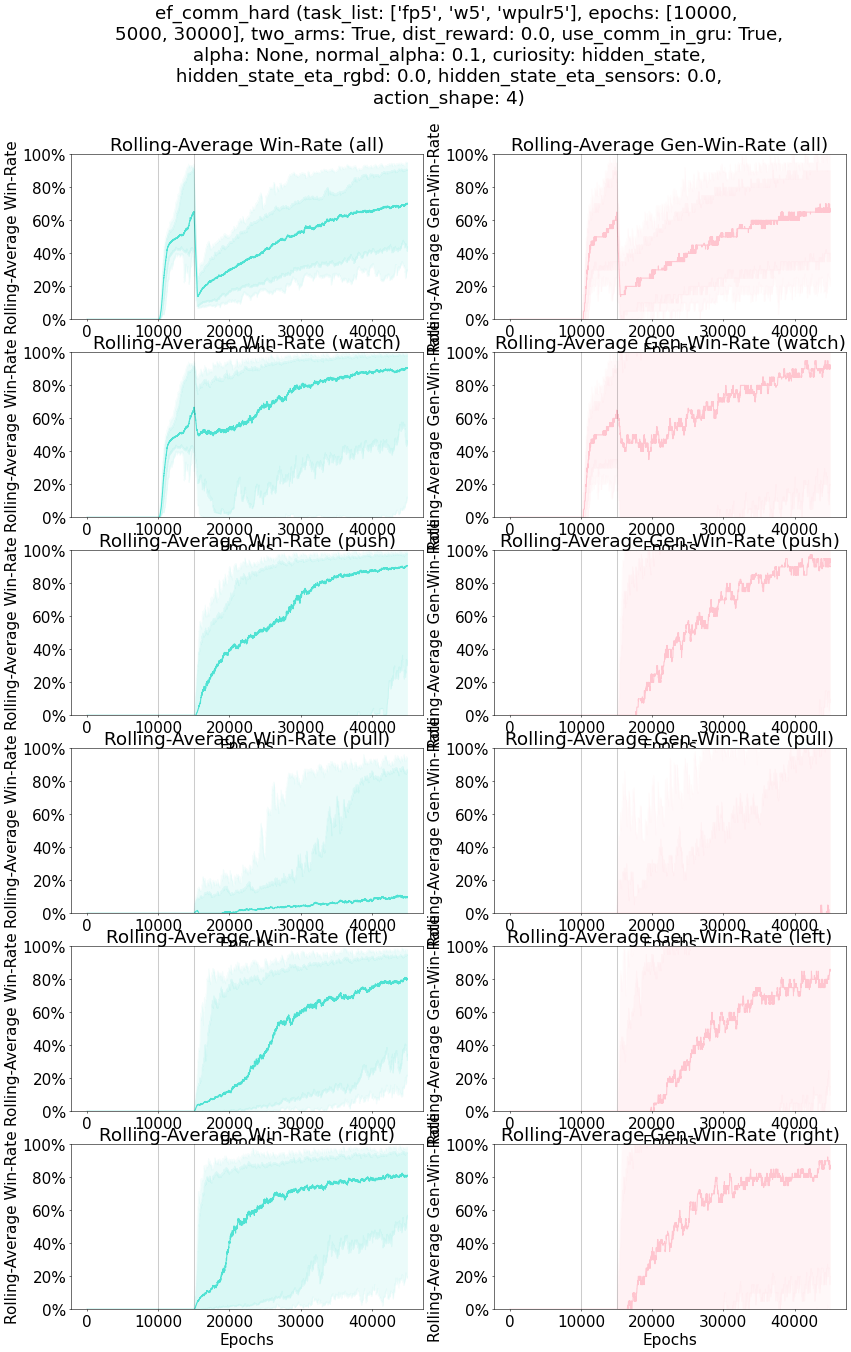
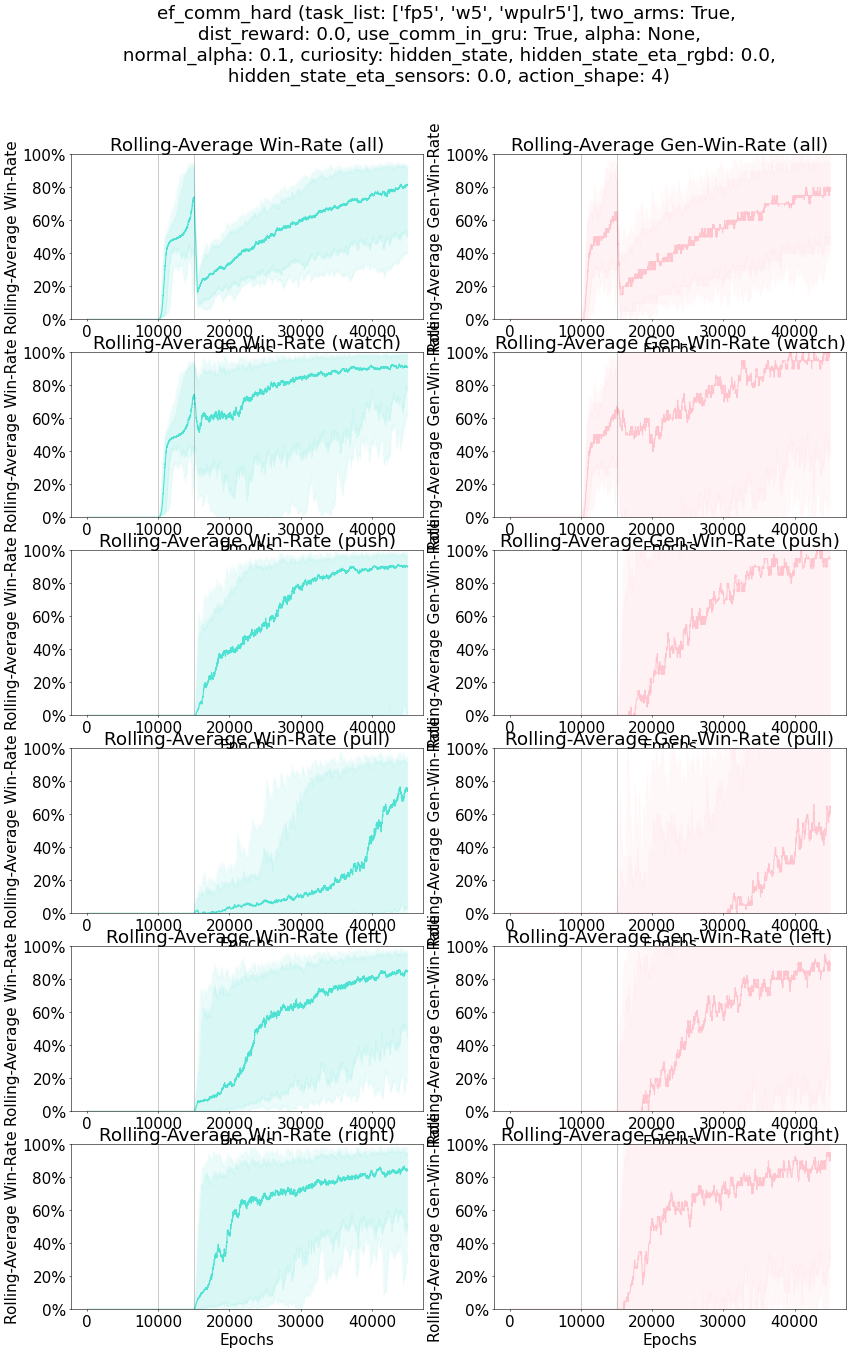
nonbinary shoulder speed is fatal.

diff --git a/utils.py b/utils.py
@@ -241,7 +241,7 @@ parser.add_argument('--show_duration',                  type=bool,          defa
     # Things which have list-values.
 parser.add_argument('--task_list',                      type=literal,       default = ["fp", "w", "wpulr"],
                     help='List of tasks. Agent trains on each task based on epochs in epochs parameter.')
-parser.add_argument('--epochs',                         type=literal,       default = [10000, 5000, 10000], # 10000 for easy mode with distance-rewards and non-gru. 25000 for hard mode enough.
+parser.add_argument('--epochs',                         type=literal,       default = [10000, 5000, 30000], # 10000 for easy mode with distance-rewards and non-gru. 25000 for hard mode enough.
                     help='List of how many epochs to train in each task.')
 parser.add_argument('--time_scales',                    type=literal,       default = [1],
                     help='Time-scales for upper MTRNN.')
@@ -260,7 +260,9 @@ parser.add_argument('--object_size',                    type=float,         defa
 parser.add_argument('--body_size',                      type=float,         default = 2,
                     help='How large is the agent\'s body?')    
 parser.add_argument('--two_arms',                       type=literal,       default = False,
-                    help='How large is the agent\'s body?')    
+                    help='Does the agent have two arms instead of one?')  
+parser.add_argument('--shoulder_binary',                type=literal,       default = True,
+                    help='Do agent shoulders only have two speeds?')      
 parser.add_argument('--time_step',                      type=float,         default = .2,
                     help='numSubSteps in pybullet environment.')
 parser.add_argument('--steps_per_step',                 type=int,           default = 20,

diff --git a/arena.py b/arena.py
@@ -171,10 +171,16 @@ class Arena():
            for body_part in touch_dict.keys():
                touch_dict[body_part] = 0 
  
-        #if(shoulder < 0): 
-        #    shoulder = -self.args.max_shoulder_speed
-        #else:
-        #    shoulder = self.args.max_shoulder_speed
+        if(self.args.shoulder_binary):
+            if(left_shoulder < 0): 
+                left_shoulder = -1
+            else:
+                left_shoulder = 1
+            if(self.args.two_arms):
+                if(right_shoulder < 0):
+                    right_shoulder = -1
+                else:
+                    right_shoulder = 1
 
         if(verbose): 
             WAITING = input("WAITING")

diff --git a/plotting.py b/plotting.py
@@ -121,7 +121,7 @@ def rolling_average_with_none(arr, window_size = 500):
 
 
 
-example = np.array([[0, 0, 0, 0, 1, 1, 1, 1, 1, 0, None, None, None, 1, 1, 1]])
+"""example = np.array([[0, 0, 0, 0, 1, 1, 1, 1, 1, 0, None, None, None, 1, 1, 1]])
 def try_rolling(example):
     print("\n\n")
     rolled = rolling_average_with_none(example, 5)
@@ -132,7 +132,7 @@ def try_rolling(example):
     plt.show()
     plt.close()
     print("\n\n")
-try_rolling(example)
+try_rolling(example)"""
     
 
 

diff --git a/bash/slurmcraft.py b/bash/slurmcraft.py
@@ -100,6 +100,11 @@ add_this("comm",   {
 
 
 
+add_this("nonbin",   {
+    "shoulder_binary" : "False"})
+
+
+
 add_this("hard", {               # More time, but harder conditions
     "epochs" : "'[10000, 5000, 30000]'",
     "use_comm_in_gru" : "True",
